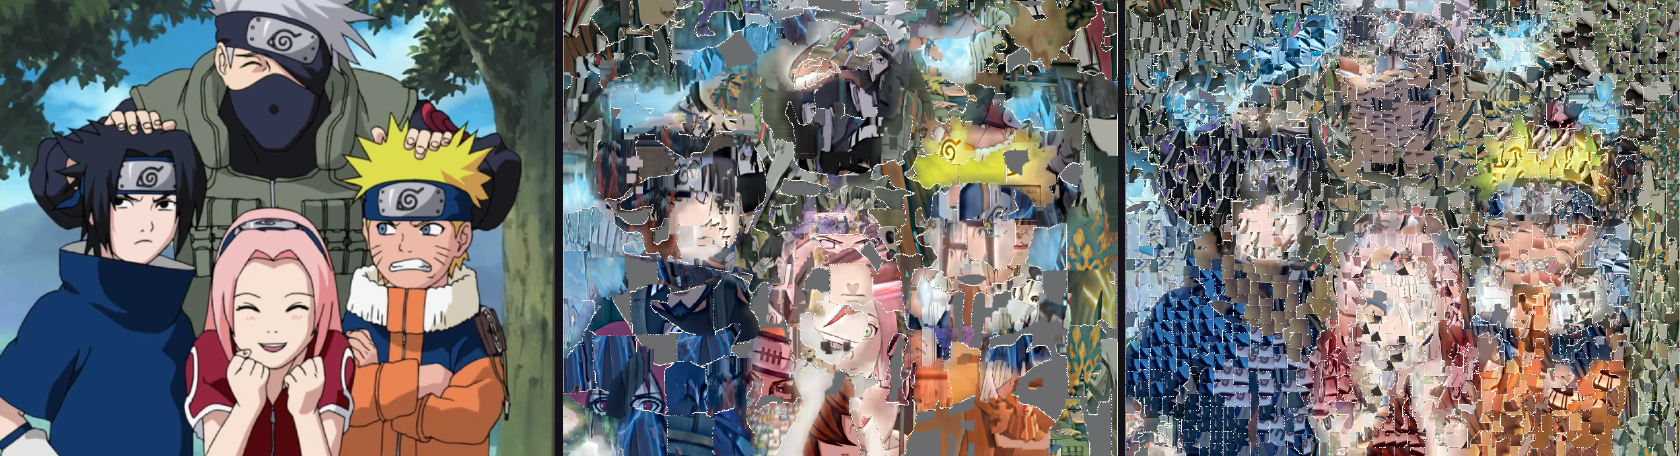
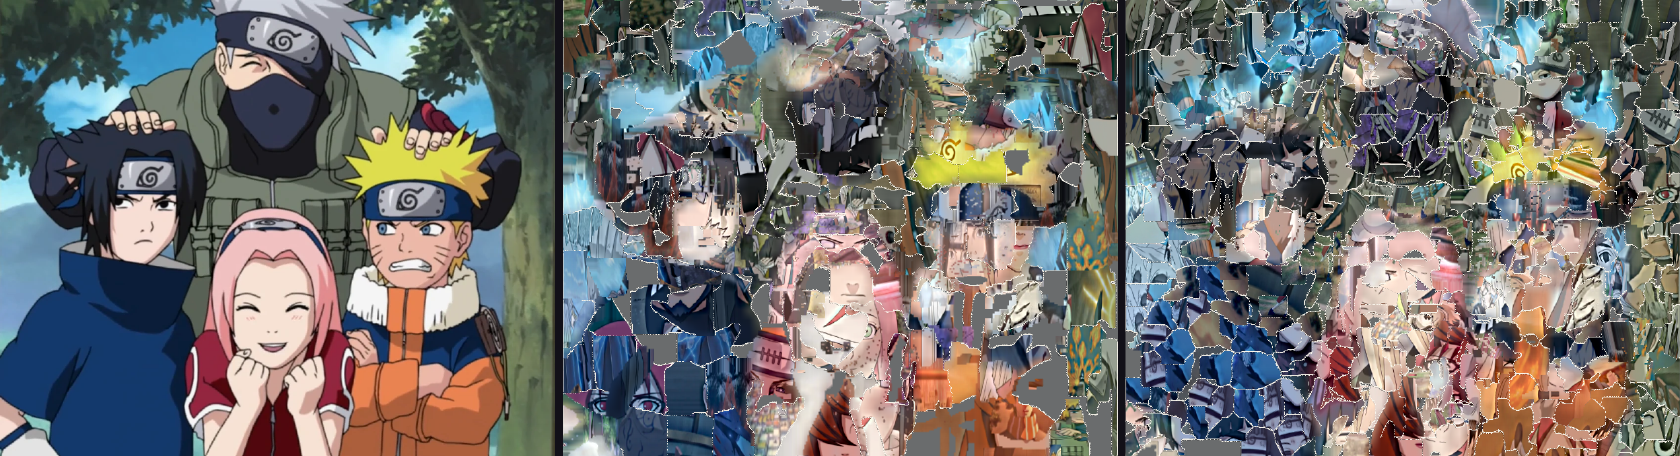
Measure the collage piece floor on the output image.
A piece that only cleared the floor on the small working canvas is dropped, and the Rick and Naruto collages are rebuilt with every visible piece above 4.5% of the short side.

diff --git a/engine/src/main/kotlin/com/intrusivethots/mosaic/engine/match/ResidualPass.kt b/engine/src/main/kotlin/com/intrusivethots/mosaic/engine/match/ResidualPass.kt
@@ -47,7 +47,7 @@ internal suspend fun assembleCollage(
     refine(plane, config, fit, canvas, pieces, correct)
     coroutineContext.ensureActive()
     relax(fit, canvas, pieces, correct, config.colorMatchWeight)
-    sealToFloor(plane, config, fit, pieces, correct)
+    sealToFloor(plane, target.width, target.height, config, fit, pieces, correct)
     onSnapshot(pieces.map { it.placement }, "Cutting edge shapes")
     onProgress(1f, "Cutting edge shapes")
     return Assembled(pieces.map { it.placement }, statsOf(fit, probes, descriptors.size, pieces))
@@ -156,34 +156,40 @@ private fun tryBlob(
 
 private fun sealToFloor(
     plane: LabPlane,
+    measureWidth: Int,
+    measureHeight: Int,
     config: MosaicConfig,
     fit: ShapeFit,
     pieces: MutableList<PlacedPiece>,
     correct: Boolean
 ) {
-    val floor = pieceFloor(config.collage.minPiece, plane.width, plane.height)
-    val radius = (floor.shortOfShort * min(plane.width, plane.height)).toInt().coerceAtLeast(2)
+    val floor = pieceFloor(config.collage.minPiece, measureWidth, measureHeight)
+    val radius = (floor.shortOfShort * min(measureWidth, measureHeight)).toInt().coerceAtLeast(2)
     repeat(4) {
-        val buried = findBuried(pieces.map { it.placement.mask }, plane.width, plane.height, floor) ?: return
+        val buried = findBuried(pieces.map { it.placement.mask }, measureWidth, measureHeight, floor) ?: return
         var index = pieces.lastIndex
         while (index >= 0) {
             if (buried.drop[index]) pieces.removeAt(index)
             index--
         }
         val masks = pieces.map { it.placement.mask }
-        val assign = nearestPiece(masks, buried.holes, plane.width, plane.height, radius)
+        val assign = nearestPiece(masks, buried.holes, measureWidth, measureHeight, radius)
         for (pieceIndex in pieces.indices) {
             val piece = pieces[pieceIndex]
-            piece.placement = withAbsorbed(piece.placement, assign, pieceIndex, buried.holes, plane.width, plane.height)
+            piece.placement = withAbsorbed(
+                piece.placement, assign, pieceIndex, buried.holes, measureWidth, measureHeight, radius
+            )
         }
         val leftover = BooleanArray(buried.holes.size) { hole -> buried.holes[hole] && assign[hole] < 0 }
-        coverHoles(plane, leftover, config, fit, pieces, correct, floor)
+        coverHoles(plane, leftover, measureWidth, measureHeight, config, fit, pieces, correct, floor)
     }
 }
 
 private fun coverHoles(
     plane: LabPlane,
     holes: BooleanArray,
+    measureWidth: Int,
+    measureHeight: Int,
     config: MosaicConfig,
     fit: ShapeFit,
     pieces: MutableList<PlacedPiece>,
@@ -196,8 +202,8 @@ private fun coverHoles(
     val occupied = BooleanArray(columns * ((plane.height + cell - 1) / cell))
     for (index in holes.indices) {
         if (!holes[index]) continue
-        val x = index % plane.width
-        val y = index / plane.width
+        val x = index % measureWidth * plane.width / measureWidth
+        val y = index / measureWidth * plane.height / measureHeight
         occupied[(x / cell) + (y / cell) * columns] = true
     }
     val claimed = BooleanArray(occupied.size)

diff --git a/engine/src/main/kotlin/com/intrusivethots/mosaic/engine/match/PieceFloor.kt b/engine/src/main/kotlin/com/intrusivethots/mosaic/engine/match/PieceFloor.kt
@@ -13,7 +13,7 @@ internal class PieceFloor(val shortOfShort: Float, val areaOfImage: Float)
 
 internal class PieceMeasure(val shortOfShort: Float, val areaOfImage: Float) {
     fun meets(floor: PieceFloor): Boolean {
-        return shortOfShort + 1e-4f >= floor.shortOfShort && areaOfImage + 1e-6f >= floor.areaOfImage
+        return shortOfShort + 1e-6f >= floor.shortOfShort && areaOfImage + 1e-8f >= floor.areaOfImage
     }
 }
 
@@ -152,17 +152,22 @@ internal fun withAbsorbed(
     pieceIndex: Int,
     holes: BooleanArray,
     width: Int,
-    height: Int
+    height: Int,
+    radius: Int
 ): CutoutPlacement {
     val mask = placement.mask ?: return placement
+    val xStart = (mask.left * width).toInt() - radius
+    val yStart = (mask.top * height).toInt() - radius
+    val xEnd = (mask.right * width).toInt() + radius
+    val yEnd = (mask.bottom * height).toInt() + radius
     var minX = width
     var minY = height
     var maxX = -1
     var maxY = -1
     var extra = 0
-    for (y in 0 until height) {
+    for (y in yStart.coerceAtLeast(0)..yEnd.coerceAtMost(height - 1)) {
         val ny = (y + 0.5f) / height.toFloat()
-        for (x in 0 until width) {
+        for (x in xStart.coerceAtLeast(0)..xEnd.coerceAtMost(width - 1)) {
             val index = y * width + x
             val owned = mask.contains((x + 0.5f) / width.toFloat(), ny)
             val gained = holes[index] && assign[index] == pieceIndex

diff --git a/README.md b/README.md
@@ -153,8 +153,9 @@ Those scores are the synthetic portrait the benchmark measures, with correction 
 | Paper detail | 0.0873 | 0.7757 | 1.03 | 0.0868 | 0.7765 | 1.02 | 0.0766 | 0.7252 | 0.53 | 0.0767 | 0.7300 | 0.53 |
 | Cut paper | 0.1152 | 0.6844 | 1.00 | 0.1133 | 0.6952 | 0.99 | 0.0917 | 0.6542 | 0.53 | 0.0925 | 0.6553 | 0.52 |
 | Small pieces | 0.1091 | 0.7037 | — | 0.1273 | 0.6413 | — | 0.0621 | 0.7694 | — | 0.0640 | 0.7750 | — |
+| Minimum piece | 0.1083 | 0.6378 | 1.02 | 0.1081 | 0.6369 | 1.02 | 0.0775 | 0.6068 | 0.94 | 0.0776 | 0.6049 | 0.94 |
 
-The paper-detail row kept line art and graded each piece most of the way to the target, so the thumbnail was tight and the photos were hard to recognize. Cut paper keeps the sharp photo and applies the bounded grade, but the pieces were large and the source frames were sampled from a 128-pixel thumb, so the texture column could read 1.00 while the photos were still a smear. Small pieces asks for 1,800 shapes (1,807 placed) at 1.2–5% scale, and 3,400 (3,403 placed) for the dense row at 0.8–3%. Each piece is a near-native crop, never upscaled more than about 1.25×, and the color grade is unchanged. Naruto's distance moves from 0.1152 to 0.1091 and its SSIM from 0.6844 to 0.7037. The dense Naruto distance moves from 0.1133 to 0.1273. Rick's distance moves from 0.0917 to 0.0621 and its SSIM from 0.6542 to 0.7694. Dense Rick moves from 0.0925 to 0.0640. The texture column is left blank because high-frequency energy versus the target was not recomputed; it is the metric that stayed near 1.00 on the smeared cut-paper render. The kept ratio is 1.040 for Naruto, 1.048 dense, 0.942 for Rick, and 0.928 dense. Piece fidelity, median and 10th percentile, is 0.536 and 0.172 for Naruto, 0.498 and 0.134 dense, 0.688 and 0.320 for Rick, and 0.617 and 0.179 dense. A blocking layer made only of global color masses was tried earlier and discarded.
+The paper-detail row kept line art and graded each piece most of the way to the target, so the thumbnail was tight and the photos were hard to recognize. Cut paper keeps the sharp photo and applies the bounded grade, but the pieces were large and the source frames were sampled from a 128-pixel thumb, so the texture column could read 1.00 while the photos were still a smear. Small pieces asks for 1,800 shapes (1,807 placed) at 1.2–5% scale, and 3,400 (3,403 placed) for the dense row at 0.8–3%. Each piece is a near-native crop, never upscaled more than about 1.25×, and the color grade is unchanged. Naruto's distance moves from 0.1152 to 0.1091 and its SSIM from 0.6844 to 0.7037. The dense Naruto distance moves from 0.1133 to 0.1273. Rick's distance moves from 0.0917 to 0.0621 and its SSIM from 0.6542 to 0.7694. Dense Rick moves from 0.0925 to 0.0640. The texture column is left blank because high-frequency energy versus the target was not recomputed; it is the metric that stayed near 1.00 on the smeared cut-paper render. The kept ratio is 1.040 for Naruto, 1.048 dense, 0.942 for Rick, and 0.928 dense. Piece fidelity, median and 10th percentile, is 0.536 and 0.172 for Naruto, 0.498 and 0.134 dense, 0.688 and 0.320 for Rick, and 0.617 and 0.179 dense. A blocking layer made only of global color masses was tried earlier and discarded. The minimum-piece row is the same request with a hard floor of 4.5% of the short side, measured on what remains visible after the mask and later overlaps. Naruto places 324 pieces in both the normal and dense renders. Rick places 374. Piece fidelity, median and 10th percentile, is 0.620 and 0.350 for Naruto, 0.633 and 0.350 dense, 0.725 and 0.416 for Rick, and 0.724 and 0.417 dense. The smallest visible short side is 4.57% for Naruto and 4.55% for Rick.
 
 The pictures below are separate showcases. `scripts/regenerate-showcase.py` rebuilds the Naruto pictures, and `scripts/regenerate-showcase.py rick` rebuilds the Rick and Morty pictures. Sources download into the gitignored `showcase-sources/` folder. The source stills are not in the repository. They belong to their respective owners. These showcases are a non-commercial demonstration.
 
@@ -166,15 +167,15 @@ The grid comparison is the target, then average-RGB selection, then the OKLab ma
 
 ![Target, coarser collage, current collage, and opaque photo collage](docs/images/rick-cutout-collage.png)
 
-The collage row is the target, then 220 larger shapes, then about 1,800 shapes at 1.2–5% scale, then the same 1,800-piece settings using the opaque photos. Repetition radius is 2 so one source cannot tile the row beside itself. Color correction strength is 0.72. Large pieces are reserved for flat areas.
+The collage row is the target, then 220 larger shapes, then the current collage, then the same settings using the opaque photos. Every visible piece is at least 4.5% of the short side, so the 1,800-piece request places a few hundred readable crops instead of slivers. Repetition radius is 2 so one source cannot tile the row beside itself. Color correction strength is 0.72. Large pieces are reserved for flat areas.
 
 ![Target, large blocking shapes, and edge-following collage](docs/images/rick-cutout-shape-compare.png)
 
-Shape row: the target, then 160 large shapes at 8–20% scale, then the 1,800-piece collage whose smaller cuts follow edges.
+Shape row: the target, then 160 large shapes at 8–20% scale, then the current collage, whose smaller cuts follow edges and still stay above the minimum piece size.
 
 ![Dense collage](docs/images/rick-cutout-collage-dense.png)
 
-The dense collage is a full-size result: 3,400 pieces at 0.8–3% scale, so more of the budget is small source crops. The picture is 1680×945.
+The dense collage is a full-size result on the same 4.5% floor, so it places 374 pieces rather than a field of slivers. The picture is 1680×945.
 
 ![Full-size grid mosaic](docs/images/rick-showcase-grid.png)
 
@@ -184,21 +185,21 @@ The grid is 80 columns, color correction strength 0.58, seed 7.
 
 Hybrid, left to right: cutouts only, grid under the collage, collage under the grid. Each asks for 480 pieces on a 48-column grid.
 
-A full-size collage of about 1,800 pieces is in `docs/images/rick-cutout-collage-output.png` (1680×945). The comparison strips are scaled to a 1680 px long edge. Panel renders use an 840 px long edge before they are joined.
+A full-size collage of 374 pieces is in `docs/images/rick-cutout-collage-output.png` (1680×945). The comparison strips are scaled to a 1680 px long edge. Panel renders use an 840 px long edge before they are joined.
 
 The earlier Naruto showcase is still in `docs/images/` without a prefix. The target is the Naruto Wiki file *Team Kakashi*: Naruto, Sakura, Sasuke, and Kakashi on a white background, with orange, pink, blue, and silver large enough to read. Group pictures that also include Sai are night scenes or monochrome drawings, so this brighter photograph is the target. The library is 100 other Naruto Wiki images, listed with their URLs in [docs/showcase/sources.tsv](docs/showcase/sources.tsv). The same cutout rules and seeds apply.
 
 ![Target, coarser collage, current collage, and opaque photo collage](docs/images/cutout-collage.png)
 
-The collage row is the target, then 220 larger shapes, then about 1,800 shapes at 1.2–5% scale, then the same 1,800-piece settings using the opaque photos. Repetition radius is 2 so one source cannot tile the row beside itself. Color correction strength is 0.72. Large pieces are reserved for flat areas.
+The collage row is the target, then 220 larger shapes, then the current collage, then the same settings using the opaque photos. Every visible piece is at least 4.5% of the short side, so the 1,800-piece request places a few hundred readable crops instead of slivers. Repetition radius is 2 so one source cannot tile the row beside itself. Color correction strength is 0.72. Large pieces are reserved for flat areas.
 
 ![Target, large blocking shapes, and edge-following collage](docs/images/cutout-shape-compare.png)
 
-Shape row: the target, then 160 large shapes at 8–20% scale, then the 1,800-piece collage whose smaller cuts follow edges.
+Shape row: the target, then 160 large shapes at 8–20% scale, then the current collage, whose smaller cuts follow edges and still stay above the minimum piece size.
 
 ![Dense collage](docs/images/cutout-collage-dense.png)
 
-The dense collage is a full-size result: 3,400 pieces at 0.8–3% scale, so more of the budget is small source crops. The picture is 1680×1379.
+The dense collage is a full-size result on the same 4.5% floor, so it places 324 pieces rather than a field of slivers. The picture is 1680×1379.
 
 ![Full-size grid mosaic](docs/images/showcase-grid.png)
 
@@ -208,7 +209,7 @@ The grid is 80 columns, color correction strength 0.58, seed 7. The picture is 1
 
 Hybrid, left to right: cutouts only, grid under the collage, collage under the grid. Each asks for 480 pieces on a 48-column grid.
 
-A full-size collage of about 1,800 pieces is in `docs/images/cutout-collage-output.png` (1680×1379). The comparison strips are scaled to a 1680 px long edge. Panel renders use an 840 px long edge before they are joined.
+A full-size collage of 324 pieces is in `docs/images/cutout-collage-output.png` (1680×1379). The comparison strips are scaled to a 1680 px long edge. Panel renders use an 840 px long edge before they are joined.
 
 Quality on the synthetic portrait is a separate check: a face, a gradient background, and a hard-edged flower, with 120 varied tiles, a 32×42 grid, and seed 7. Both sides are the original tile pixels through the same renderer, so neither side is helped by a color wash. Lower OKLab ΔE is closer color. Higher luminance SSIM is closer structure. `MatchingQualityTest` fails if the OKLab side stops beating average-RGB on either number.
 
